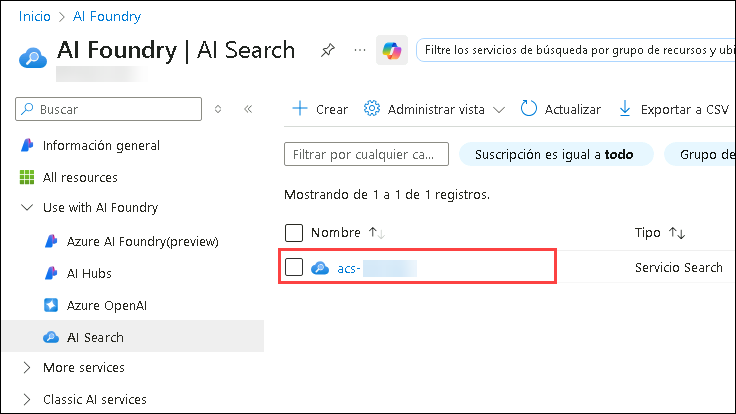
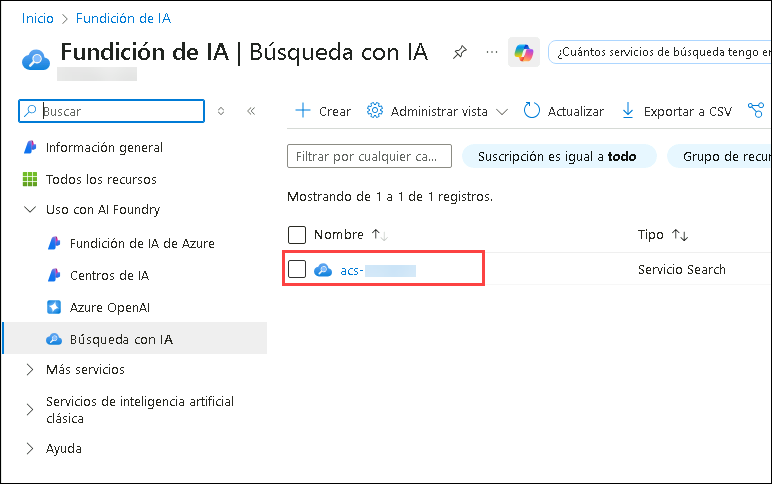
updated lav1v2.md

diff --git a/docs/labs/02-build-your-own-copilot/lab1v2.md b/docs/labs/02-build-your-own-copilot/lab1v2.md
@@ -213,7 +213,7 @@ En esta tarea, conservará las incorporaciones en Azure AI Search ejecutando una
 
     ![](./Media/ai-search1.png)    
 
-1. En la pestaña **AI Foundry | AI Search**, seleccione **acs-<inject key="DeploymentID" enableCopy="false"/>**.
+1. En la pestaña **Fundición de IA | Búsqueda de IA**, seleccione **acs-<inject key="DeploymentID" enableCopy="false"/>**.
 
    ![](./Media/select-ai-search-service.png)
 
